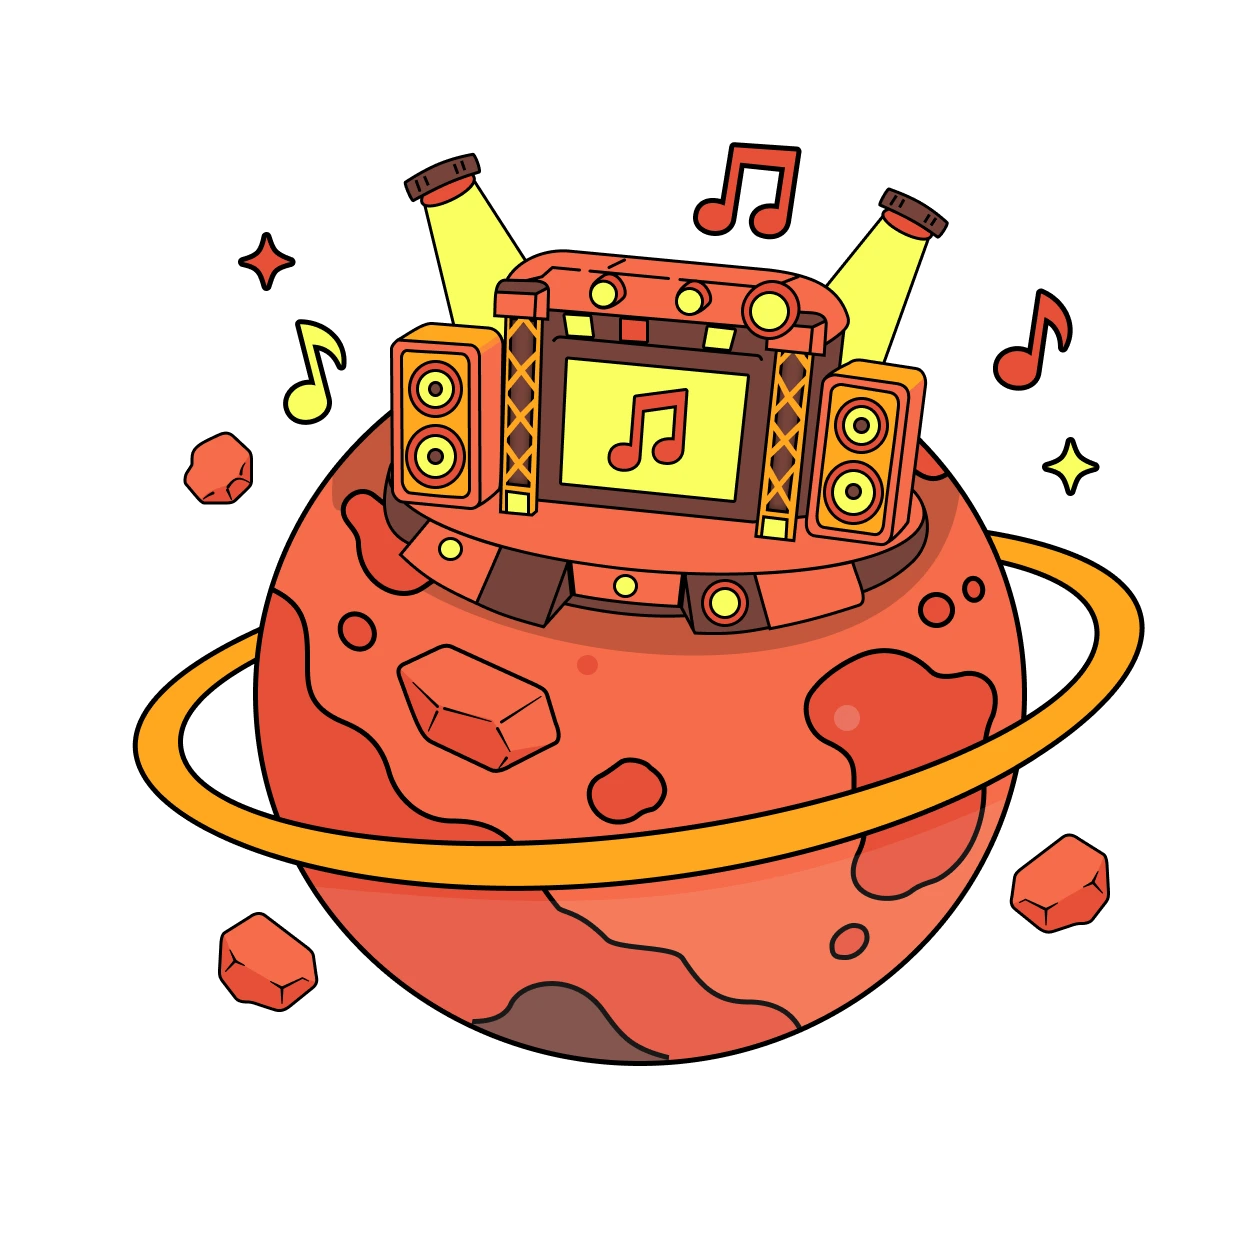
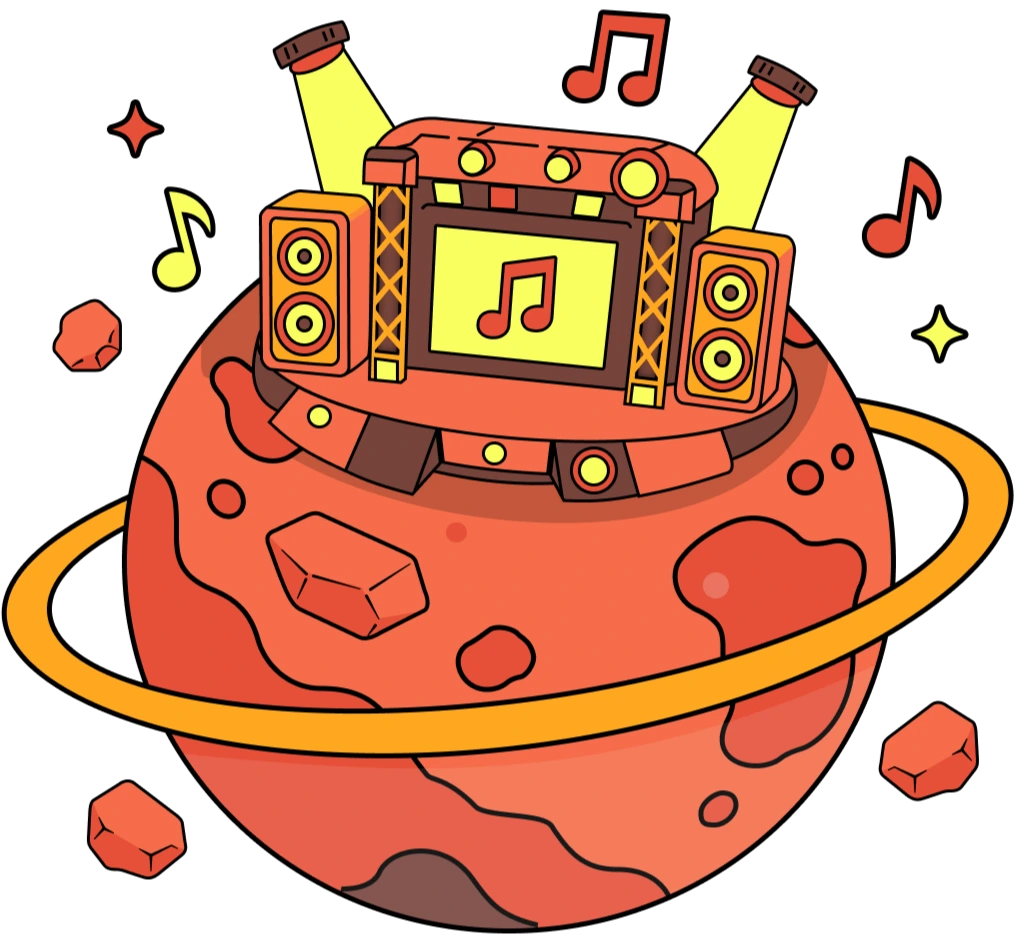
feat: konser section not yet responsive

diff --git a/app/modules/Konser.jsx b/app/modules/Konser.jsx
@@ -1,0 +1,114 @@
+"use client"
+
+import React, { useEffect, useState } from 'react'
+import Image from 'next/image'
+import gunung from '../../public/webp/gunungkonser.svg'
+import bintang1 from '../../public/webp/bintang1.webp'
+import bintang2 from '../../public/webp/bintang2.webp'
+import frame4 from '../../public/webp/frame4.svg'
+import cupikonser from '../../public/webp/cupikonser.webp'
+import fasikonser from '../../public/webp/fasikonser.webp'
+import indie from '../../public/webp/indie.webp'
+import festrona from '../../public/webp/festrona.webp'
+import pin from '../../public/webp/pin.webp'
+
+const TARGET_DATE_UTC_MS = Date.UTC(2026, 9, 30, 17, 0, 0)
+
+const getCountdown = () => {
+    const nowMs = Date.now()
+    const diffMs = Math.max(TARGET_DATE_UTC_MS - nowMs, 0)
+    const totalSeconds = Math.floor(diffMs / 1000)
+
+    const days = Math.floor(totalSeconds / 86400)
+    const hours = Math.floor((totalSeconds % 86400) / 3600)
+    const minutes = Math.floor((totalSeconds % 3600) / 60)
+    const seconds = totalSeconds % 60
+
+    return { days, hours, minutes, seconds }
+}
+
+const Konser = () => {
+    const [hasMounted, setHasMounted] = useState(false)
+    const [countdown, setCountdown] = useState(getCountdown())
+
+    useEffect(() => {
+        setHasMounted(true)
+        const timerId = setInterval(() => {
+            setCountdown(getCountdown())
+        }, 1000)
+
+        return () => clearInterval(timerId)
+    }, [])
+
+    const timeBlocks = [
+        { label: 'DAY', value: hasMounted ? String(countdown.days) : '00' },
+        {
+            label: 'HOUR',
+            value: hasMounted ? String(countdown.hours).padStart(2, '0') : '00',
+        },
+        {
+            label: 'MINUTES',
+            value: hasMounted ? String(countdown.minutes).padStart(2, '0') : '00',
+        },
+        {
+            label: 'SECONDS',
+            value: hasMounted ? String(countdown.seconds).padStart(2, '0') : '00',
+        },
+    ]
+
+    return (
+        <section className='relative mt-[16%] flex flex-col min-h-screen w-full items-center justify-start overflow-x-clip bg-[#422351] max-sm:mt-0 max-lg:mt-[0%]'>
+            <div className='absolute left-[10%] top-[8%] z-4 w-[80%] h-[80%] max-sm:h-[60%] max-sm:top-[0%] max-lg:top-[12%] max-lg:h-[70%] max-sm:translate-y-[-4%] bg-[#FFC368]/67 rounded-[50%] blur-[150px] max-sm:blur-[100px]' />
+
+            <Image src={bintang1} alt="" aria-hidden className='absolute top-[6%] left-[8%] z-2 scale-75 blur-[1px] max-sm:scale-50' />
+            <Image src={bintang1} alt="" aria-hidden className='absolute top-[12%] left-[28%] z-2 scale-[1.6] blur-[2px] max-sm:scale-100' />
+            <Image src={bintang1} alt="" aria-hidden className='absolute top-[4%] right-[18%] z-2 scale-[2.1] blur-[1px] max-sm:scale-125' />
+            <Image src={bintang1} alt="" aria-hidden className='absolute top-[32%] right-[6%] z-20 scale-90 blur-[3px] max-sm:scale-50' />
+            <Image src={bintang1} alt="" aria-hidden className='absolute top-[40%] left-[4%] z-20 scale-[1.2] blur-[1px] max-sm:scale-75' />
+            <Image src={bintang1} alt="" aria-hidden className='absolute top-[52%] left-[22%] z-20 scale-[0.7] blur-[2px] max-sm:scale-[0.5]' />
+            <Image src={bintang1} alt="" aria-hidden className='absolute top-[48%] right-[22%] z-20 scale-[1.7] blur-[2px] max-sm:scale-100' />
+            <Image src={bintang1} alt="" aria-hidden className='absolute bottom-[18%] left-[12%] z-20 scale-[7.2] blur-[1px] max-sm:scale-125' />
+            <Image src={bintang1} alt="" aria-hidden className='absolute bottom-[10%] right-[10%] z-20 scale-[0.7] blur-[1px] max-sm:scale-50' />
+            <Image src={bintang2} alt="" aria-hidden className='absolute top-[20%] right-[32%] z-20  scale-[0.9] blur-[3px] max-sm:scale-75' />
+            <Image src={bintang2} alt="" aria-hidden className='absolute top-[58%] left-[34%] z-20 scale-[0.6] blur-[2px] max-sm:scale-[0.4]' />
+            <Image src={bintang2} alt="" aria-hidden className='absolute bottom-[30%] right-[2%] z-20 scale-[1.1] blur-[2px] max-sm:scale-75' />
+
+            <Image src={gunung} alt="Gunung" className='absolute left-0 top-0 translate-y-[-24%] z-1 w-[100%] scale-y-90 max-sm:h-[60%] max-sm:top-[0%] max-lg:top-[12%] max-lg:h-[70%] max-sm:translate-y-[-4%]' />
+            <Image src={indie} alt="Indie" className='relative z-20 w-[600px] h-auto max-lg:w-[320px] max-sm:w-[220px]' />
+            <Image src={festrona} alt="Festrona" className='relative z-20 w-[480px] h-auto max-lg:w-[320px] max-sm:w-[220px]' />
+            <Image src={cupikonser} alt="Cupikonser" className='absolute top-[26%] right-[6%] z-20 w-[300px] h-auto max-lg:w-[200px] max-lg:top-[0%] max-sm:w-[140px] max-sm:top-[1%] max-sm:right-[-8%]' />
+            <Image src={fasikonser} alt="Fasikonser" className='absolute top-[26%] left-[6%] z-20 w-[300px] h-auto max-lg:w-[200px] max-lg:top-[0%] max-sm:w-[140px] max-sm:top-[1%] max-sm:left-[-8%]' />
+            <Image src={frame4} alt="Frame 4" className='absolute top-[14%] translate-y-[-22%] left-0 z-5 w-screen scale-y-80 h-auto max-sm:translate-y-[-26%] max-sm:scale-120 max-lg:translate-y-[-36%]' />
+
+            <div className='relative z-20 flex min-h-screen flex-col items-center justify-start gap-6 px-6 pt-20 max-sm:pt-0 max-lg:pt-0 max-sm:gap-4 max-sm:px-4'>
+                <div className='flex w-full max-w-[420px] items-center justify-center rounded-[3.5rem] bg-gradient-to-b from-[#BE3A85]/50 to-[#FFA9FE]/50 px-0 py-3 backdrop-blur-md border-[0.5px] border-[#F2C2FF] max-sm:max-w-[300px] max-sm:rounded-3xl max-sm:px-6 max-sm:py-4'>
+                    <h2 className='text-center text-5xl font-extrabold leading-tight tracking-wide text-white max-lg:text-4xl max-sm:text-2xl'>
+                        Concert
+                    </h2>
+                </div>
+
+                <div className='flex w-full max-w-fit items-center justify-center gap-2 rounded-full border border-white/30 bg-white/5 px-10 py-4 backdrop-blur-sm max-sm:max-w-[300px] max-sm:py-3'>
+                    <Image src={pin} alt="Pin" className='h-10 w-auto text-white' />
+                    <span className='text-3xl font-bold tracking-wide text-white max-lg:text-2xl max-sm:text-lg'>Parking Lot Stadion Mandala Krida</span>
+                </div>
+
+                <div className='flex w-[130%] px-20 py-10 rounded-2xl backdrop-blur-xs shadow-lg bg-[#BE3A85]/50 border-[0.5px] border-[#BE3A85] items-start justify-center gap-8 max-sm:max-w-[300px] max-sm:gap-2 max-sm:px-4 max-sm:py-5'>
+                    {timeBlocks.map((block) => (
+                        <div key={block.label} className='flex flex-1 flex-col items-center gap-2 max-sm:gap-1'>
+                            <div className='flex aspect-square w-full items-center justify-center rounded-2xl bg-[#F1D6FF] max-sm:rounded-xl'>
+                                <span className='text-4xl font-extrabold text-[#5C2D68] max-lg:text-3xl max-sm:text-xl'>
+                                    {block.value}
+                                </span>
+                            </div>
+                            <span className='text-2xl font-bold tracking-wide text-white max-lg:text-sm max-sm:text-[9px] max-sm:whitespace-nowrap max-sm:tracking-tight'>
+                                {block.label}
+                            </span>
+                        </div>
+                    ))}
+                </div>
+            </div>
+        </section>
+    )
+}
+
+export default Konser

diff --git a/app/modules/Hero.jsx b/app/modules/Hero.jsx
@@ -9,6 +9,7 @@ import frame2 from '../../public/webp/Frame2.svg'
 import bintang1 from '../../public/webp/bintang1.webp'
 import bintang2 from '../../public/webp/bintang2.webp'
 import roket from '../../public/webp/roket.svg'
+import rasi from '../../public/webp/rasi.svg'
 
 const Hero = () => {
   return (
@@ -20,15 +21,16 @@ const Hero = () => {
         <Image src={gunungl} width={350} alt="Gunung Kiri" className='absolute bottom-20 left-0 z-1 max-lg:h-auto max-lg:w-[320px] max-sm:w-[180px] max-sm:top-32 max-lg:top-42' />
         <Image src={gunungr} width={350} alt="Gunung Kanan" className='absolute bottom-22 right-0 z-1 max-lg:h-auto max-lg:w-[320px] max-lg:top-42 max-sm:w-[180px] max-sm:top-32' />
         <Image src={frame2} alt="Frame 2" className='absolute bottom-0 translate-y-[77%] z-10 w-screen max-sm:bottom-0 max-sm:translate-y-[77%] max-sm:scale-[200%] max-sm:w-auto max-lg:bottom-0 max-lg:translate-y-[64%]' />
-        <Image src={bintang1} alt="Bintang 1" className='absolute top-10 left-10 z-999 blur-[1px] max-sm:scale-75' />
-        <Image src={bintang1} alt="Bintang 1" className='absolute top-0 left-[30%] z-999 blur-[1px] scale-[500%] max-lg:scale-[300%] max-sm:scale-[180%]' />
-        <Image src={bintang1} alt="Bintang 1" className='absolute top-[29%] left-[1%] z-999 blur-[1px] scale-[300%] max-lg:scale-[200%] max-sm:scale-100' />
-        <Image src={bintang2} alt="Bintang 2" className='absolute top-[6%] right-[40%] z-999 blur-[4px] max-sm:scale-75' />
-        <Image src={bintang1} alt="Bintang 1" className='absolute top-[14%] right-[4%] z-999 blur-[1px] max-sm:scale-75' />
-        <Image src={bintang1} alt="Bintang 1" className='absolute top-[16%] right-[20%] z-999 blur-[2px] max-sm:scale-75' />
-        <Image src={bintang2} alt="Bintang 2" className='absolute bottom-[12%] right-[8%] z-999 blur-[2px] max-sm:scale-75' />
-        <Image src={bintang2} alt="Bintang 2" className='absolute bottom-[4%] right-[38%] z-999 blur-[5px] scale-40 max-sm:scale-[25%]' />
-        <Image src={roket} alt="Roket" className='absolute bottom-[-60%] left-[34%] z-999 max-sm:scale-45 max-sm:left-[2%] max-sm:bottom-[-10%] max-lg:left-[20%] max-lg:bottom-[-15%]' />
+        <Image src={bintang1} alt="Bintang 1" className='absolute top-10 left-10 z-999 blur-[1px] max-lg:top-6 max-lg:left-6 max-sm:top-4 max-sm:left-4 max-sm:scale-75' />
+        <Image src={bintang1} alt="Bintang 1" className='absolute top-0 left-[30%] z-999 blur-[1px] scale-[500%] max-lg:top-2 max-lg:left-[35%] max-lg:scale-[300%] max-sm:top-6 max-sm:left-[40%] max-sm:scale-[180%]' />
+        <Image src={bintang1} alt="Bintang 1" className='absolute top-[29%] left-[1%] z-999 blur-[1px] scale-[300%] max-lg:top-[24%] max-lg:left-[2%] max-lg:scale-[200%] max-sm:top-[22%] max-sm:left-[4%] max-sm:scale-100' />
+        <Image src={bintang2} alt="Bintang 2" className='absolute top-[6%] right-[40%] z-999 blur-[4px] max-lg:top-[8%] max-lg:right-[32%] max-sm:top-[12%] max-sm:right-[22%] max-sm:scale-75' />
+        <Image src={bintang1} alt="Bintang 1" className='absolute top-[14%] right-[4%] z-999 blur-[1px] max-lg:top-[16%] max-lg:right-[6%] max-sm:top-[18%] max-sm:right-[8%] max-sm:scale-75' />
+        <Image src={bintang1} alt="Bintang 1" className='absolute top-[16%] right-[20%] z-999 blur-[2px] max-lg:top-[20%] max-lg:right-[24%] max-sm:top-[24%] max-sm:right-[28%] max-sm:scale-75' />
+        <Image src={bintang2} alt="Bintang 2" className='absolute bottom-[12%] right-[8%] z-999 blur-[2px] max-lg:bottom-[16%] max-lg:right-[10%] max-sm:bottom-[22%] max-sm:right-[14%] max-sm:scale-75' />
+        <Image src={bintang2} alt="Bintang 2" className='absolute bottom-[4%] right-[38%] z-999 blur-[5px] scale-40 max-lg:bottom-[8%] max-lg:right-[32%] max-sm:bottom-[24%] max-sm:left-[26%] max-sm:scale-[25%]' />
+        <Image src={rasi} alt="rasi" className='absolute bottom-0 translate-y-[150%] left-0 z-999 max-lg:scale-80 max-sm:scale-60 max-sm:translate-y-[30%] max-sm:left-[-40%] max-lg:left-[-10%] max-lg:translate-y-[120%]' />
+        <Image src={roket} alt="Roket" className='absolute bottom-0 translate-y-[80%] left-[34%] z-999 max-sm:translate-y-0 max-lg:translate-y-0 max-sm:scale-45 max-sm:left-[2%] max-sm:bottom-[-10%] max-lg:left-[20%] max-lg:bottom-[-15%]' />
     </div>
   )
 }

diff --git a/app/modules/Funrun.jsx b/app/modules/Funrun.jsx
@@ -11,7 +11,7 @@ import gununglari from '../../public/webp/gununglari.svg'
 const Funrun = () => {
   return (
     <section className='relative mt-[16%] max-sm:mt-0 max-lg:mt-[0%] bg-[#422351] min-h-screen w-full overflow-x-clip'>
-      <div className='absolute left-[15%] top-[30%] z-1 w-[120%] h-[100%] max-sm:h-[60%] max-sm:top-[0%] max-sm:translate-y-[-4%] bg-[#FFA2D7] rounded-[50%] blur-[150px] max-sm:blur-[100px]' />
+      <div className='absolute left-[15%] top-[24%] z-1 w-[120%] h-[80%] max-sm:h-[60%] max-sm:top-[0%] max-lg:top-[12%] max-lg:h-[70%] max-sm:translate-y-[-4%] bg-[#FFA2D7] rounded-[50%] blur-[150px] max-sm:blur-[100px]' />
 
       <Image src={bintang1} alt="" aria-hidden className='absolute top-[6%] left-[8%] z-10 scale-75 blur-[1px] max-sm:scale-50' />
       <Image src={bintang2} alt="" aria-hidden className='absolute top-[10%] left-[30%] z-10 scale-[1.6] blur-[2px] max-sm:scale-100' />
@@ -48,7 +48,7 @@ const Funrun = () => {
       <Image
         src={frame3}
         alt="Frame 3"
-        className='absolute top-0 translate-y-[-14%] left-0 z-1 w-screen h-auto max-sm:translate-y-[-26%] max-sm:scale-120 max-lg:translate-y-[-36%]'
+        className='absolute top-0 translate-y-[-22%] left-0 z-1 w-screen scale-y-90 h-auto max-sm:translate-y-[-26%] max-sm:scale-120 max-lg:translate-y-[-36%]'
       />
 
       <div className='relative z-20 flex min-h-screen flex-col items-center justify-start gap-6 px-6 pt-20 max-sm:pt-0 max-lg:pt-0 max-sm:gap-4 max-sm:px-4'>

diff --git a/app/page.tsx b/app/page.tsx
@@ -1,6 +1,7 @@
 import Hero from "./modules/Hero";
 import Futsal from "./modules/Futsal";
 import Funrun from "./modules/Funrun";
+import Konser from "./modules/Konser";
 
 export default function Home() {
   return (
@@ -8,6 +9,7 @@ export default function Home() {
       <Hero />
       <Futsal />
       <Funrun />
+      <Konser />
     </>
   );
 }